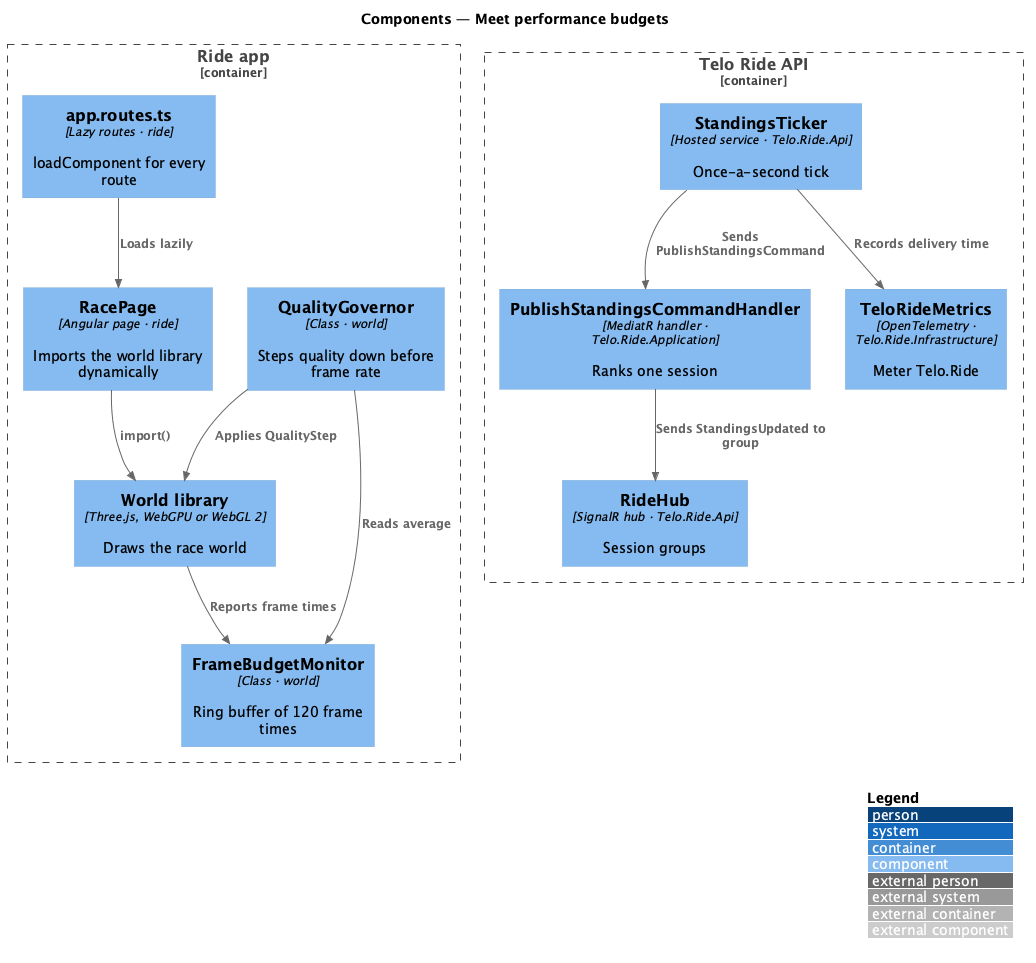
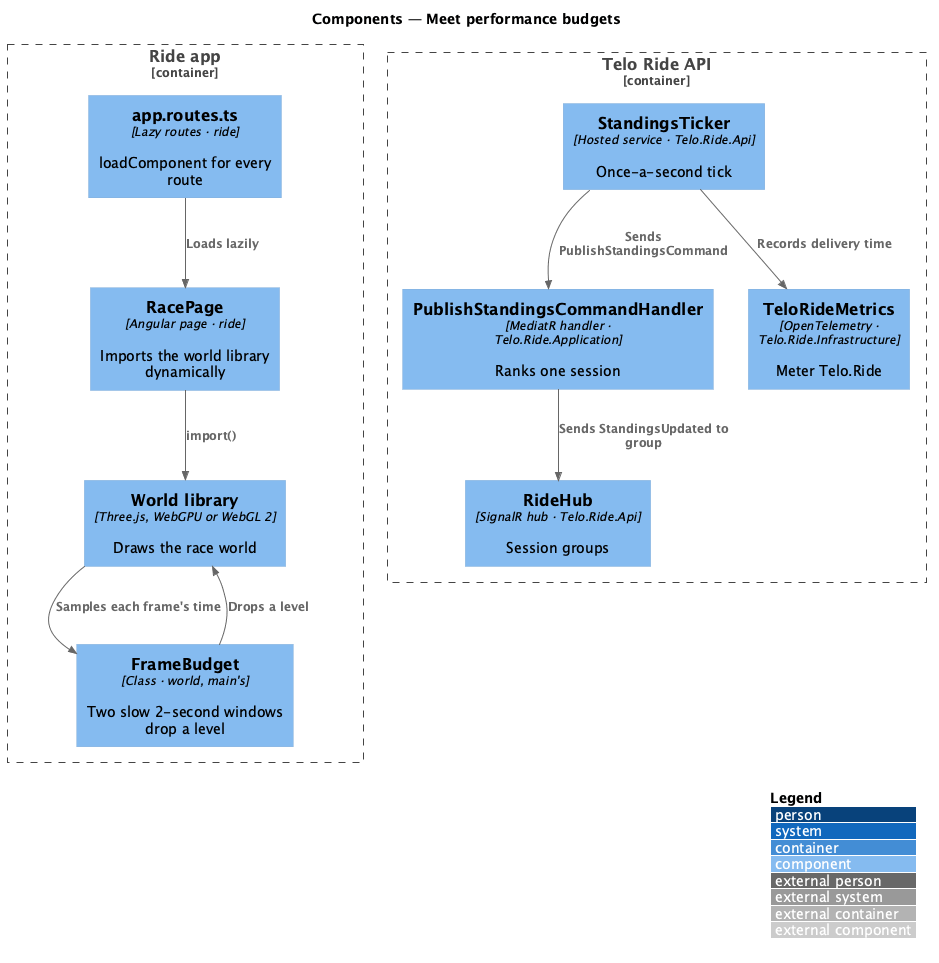
Step down as main's frame budget does, in the performance design and L2-159

diff --git a/docs/detailed-designs/performance/meet-performance-budgets/README.md b/docs/detailed-designs/performance/meet-performance-budgets/README.md
@@ -37,12 +37,17 @@ frame budget is held and measured.
   20.7 kB raw, 5.3 kB transferred, to `main` wherever it is provided, because
   `@angular/platform-browser` and `@angular/router` import `@angular/common/http`, so esbuild
   places that module in the initial chunk. Every backend client needs it.
-- **`FrameBudgetMonitor`** — class in the world library. It keeps a fixed-size ring buffer of the
-  last 120 frame times from `requestAnimationFrame` timestamps and reports the moving average and
-  the time spent below 30 frames a second.
-- **`QualityGovernor`** — class in the world library. When the average falls below 50 frames a
-  second it applies the next lower `QualityStep`; when the average holds well above it for
-  `<TO SUPPLY>` seconds it raises one step. Frame rate is protected by giving up detail first.
+- **`measureFramePeriod`** — `main`'s `frame-period.ts` in the world library. Before the world's
+  first frame it takes the median of about 30 frame intervals and snaps it to the nearest common
+  refresh rate: the display's frame period _P_ (16.7 ms at 60 Hz).
+- **`FrameBudget`** — `main`'s class in `render-quality.ts`, fed each frame's time by the renderer.
+  Every 2 seconds it takes the median frame of that window; a window whose median is over
+  1.2 × _P_ is slow. After two slow windows in a row it drops one quality level, or straight to
+  Low when the second window's median is 3 × _P_ or more, so the rider sees one change of look,
+  not one per level. It never drops below Low and never raises the level during the ride
+  (`L2-159` AC4). The renderer applies the new level on the next frame; its programs were
+  compiled while the world loaded, so the drop costs no hitch. Frame rate is protected by giving
+  up detail first (`L2-136` AC3).
 - **Web Vitals measurement** — a Lighthouse run (`tools/perf/home-vitals.mjs`) with a mobile
   device profile and a 4G throttling profile measures Home cold. The device and network profile
   values are `<TO SUPPLY>`. Like the heap checks, it runs only when a person asks.
@@ -92,22 +97,25 @@ request and standings budgets.
 ### Components
 
 On the frontend, lazy routes and the dynamically imported world library keep the initial bundle
-small, and `QualityGovernor` reacts to `FrameBudgetMonitor`. On the backend, `StandingsTicker`
+small, and the renderer feeds `FrameBudget` each frame's time. On the backend, `StandingsTicker`
 drives the standings and `TeloRideMetrics` records their delivery time.
 
 ![C4 component view for meeting performance budgets](diagrams/c4-component.png)
 
 ### Class structure
 
-`QualityGovernor` reads `FrameBudgetMonitor` and walks an ordered list of `QualityStep`s.
+The renderer owns one `FrameBudget`, judged against the period `measureFramePeriod` found, and
+reads the techniques of its level from `techniquesAt`.
 `StandingsTicker` sends one command per session and records into `TeloRideMetrics`.
 
 ![Class diagram for meeting performance budgets](diagrams/class-structure.png)
 
 ### Behaviour — step quality down to hold the frame rate
 
-When the moving average drops below 50 frames a second, the governor lowers one quality step
-before frame rate falls further (`L2-136` AC3).
+Each frame the renderer hands `FrameBudget` the frame's time. When two 2-second windows in a row
+have a median frame over 1.2 × _P_, the budget drops one level for the rest of the race, or
+straight to Low when the second is 3 × _P_ or more; the renderer draws the new level's techniques
+from the next frame (`L2-159` AC4, `L2-136` AC3).
 
 ![Sequence diagram for stepping quality down](diagrams/sequence-quality-step-down.png)
 
@@ -124,3 +132,12 @@ Each second the ticker ranks every running session and sends its standings; the 
 recorded for the 95th-percentile budget (`L2-137` AC2).
 
 ![Sequence diagram for delivering standings](diagrams/sequence-standings-tick.png)
+
+## Open questions
+
+- **Slice 8.5 follows `L2-159` AC4 and `main`.** This design first named a `FrameBudgetMonitor`
+  averaging 120 frames and a `QualityGovernor` that stepped down below 50 frames a second and
+  raised a step again after a stretch well above it. `L2-159` AC4 judges two 2-second windows
+  against the display's frame period and never raises the level, and so does `main`'s
+  `FrameBudget`, which the world library carries (ADR 0030). `main` wins on rendering, so its far
+  slow window, 3 × _P_ or more, dropping straight to Low (its #896), joins `L2-159` AC4.

diff --git a/docs/specs/L2.md b/docs/specs/L2.md
@@ -1966,7 +1966,7 @@ Settings is at `/settings`.
    - "Medium": "Shadows, physically based materials, foliage and wind.";
    - "Low": "The drawn look: toon shading and ink outlines. Lightest on battery and older laptops."
 3. Given no choice yet, when Settings opens, then Auto is chosen.
-4. Given Auto, when a world opens, then it starts at Low on both graphics APIs (L2-065 AC5), or at the level the device check found (L2-162), and steps down one level after two 2-second windows in a row whose median frame is more than 1.2 × the display's frame period.
+4. Given Auto, when a world opens, then it starts at Low on both graphics APIs (L2-065 AC5), or at the level the device check found (L2-162), and steps down one level after two 2-second windows in a row whose median frame is more than 1.2 × the display's frame period, or straight to Low when the second window's median is 3 × the frame period or more, so the rider sees one change of look. It never steps below Low and never raises the level again during the ride.
 5. Given a fixed level, when a world opens, then it starts at that level.
 6. Given WebGL 2 without WebGPU, when Quality shows, then Ultra is disabled and tagged "Needs WebGPU", and Auto reads as with WebGPU.
 7. Given a ride is running, when the level is changed, then the world goes on drawing at the old level until the new one is built, then changes on the next frame without pausing the ride.
